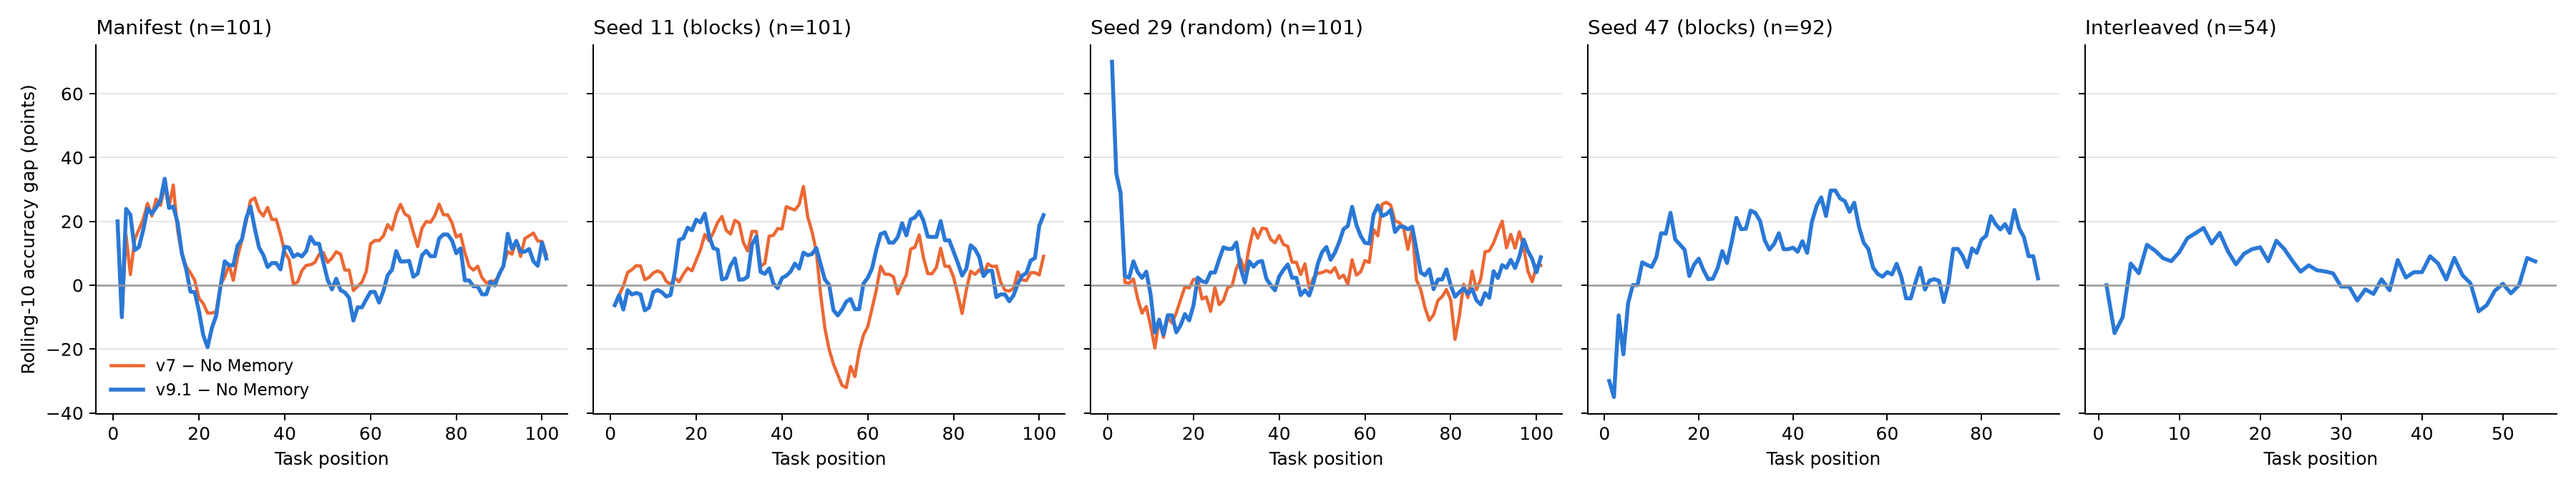
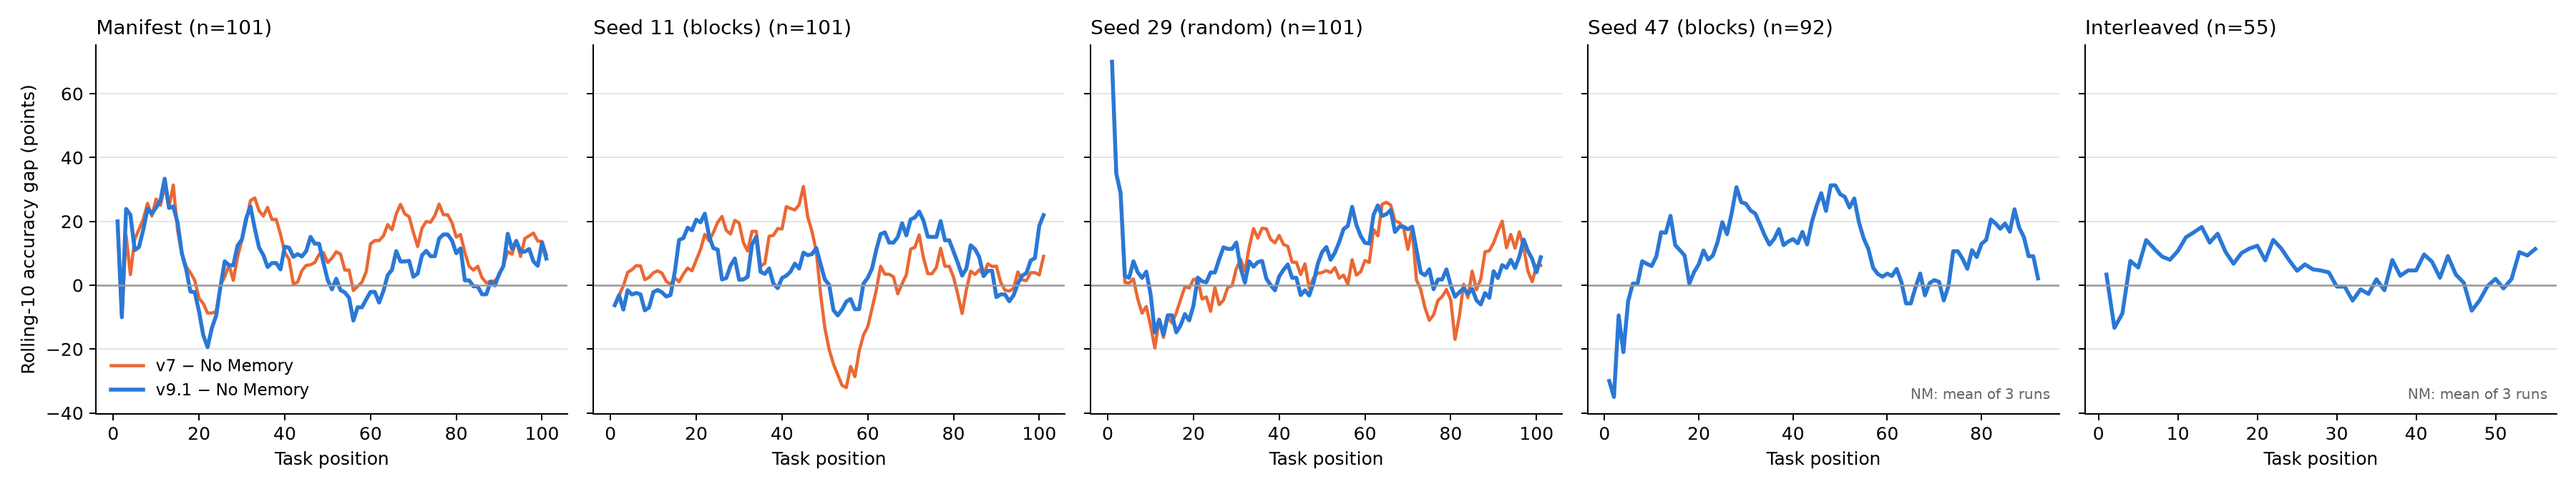
Order table: seed 47/interleaved vs mean of three No Memory runs; drop partial NM; remove duplicated numbers

diff --git a/docs/thesis/sections/5-Results.tex b/docs/thesis/sections/5-Results.tex
@@ -129,7 +129,7 @@ With memory, the order decides which experience is available; in the manifest or
   \item[Domains adjacent.] The order of the 20 domain blocks and the order of tasks within each block are shuffled, with seed 11 and seed 47. The manifest order, used for the main results, also belongs to this kind.
   \item[Domains mixed.] A uniformly random order of all 101 tasks (seed 29), and an interleaved order that takes one task from each domain in turn, so that consecutive tasks always come from different domains.
 \end{description}
-In these orders the two arms run as pairs on each task, alternating which runs first (ABBA). No Memory proved stable: generation is deterministic, and three runs scored 28.5, 27.9 and 28.6\% with 30, 29 and 29 zero-score tasks, so to save compute no further No Memory runs were made: it was stopped after 14 tasks of the interleaved order and after 90 tasks of seed 47. From then on only Long Memory runs, and these orders are compared with the existing No Memory scores per task.
+In the seed-11 and seed-29 orders the two arms run as pairs on each task, alternating which runs first (ABBA). No Memory proved stable: generation is deterministic, and its three complete runs (manifest, seed 11, seed 29) scored 28.5, 27.9 and 28.6\% with 30, 29 and 29 zero-score tasks. The seed-47 and interleaved orders were therefore run with Long Memory only and are compared with the per-task mean of these three No Memory runs.
 
 \begin{table}[ht]
 \centering
@@ -146,28 +146,28 @@ Kind & Order & $n$ & NM & WF & F & WF $-$ NM & F $-$ NM & F $-$ WF & NM / WF / F
 \midrule
 Adjacent & Manifest\textsuperscript{a,\,$\dagger$WF} & 101 & 28.5 & \textbf{40.0} & 35.2 & $+11.5$ [6.0, 16.9] & $+7.1$ [0.9, 13.1] & $-4.4$ [$-9.7$, 1.1] & 30 / 13 / 20 \\
 Adjacent & Shuffled blocks (seed 11)\textsuperscript{$\dagger$F} & 101 & 27.9 & 33.1 & \textbf{35.4} & $+4.4$ [$-1.9$, 10.6] & $+7.4$ [1.6, 13.1] & $+3.0$ [$-3.0$, 9.0] & 29 / 21 / 16 \\
-Adjacent & Shuffled blocks (seed 47)\textsuperscript{b} & 92 & 28.9 & -- & \textbf{39.0} & -- & $+10.4$ [4.3, 16.6] & -- & 25 / -- / 9 \\
+Adjacent & Shuffled blocks (seed 47)\textsuperscript{b} & 92 & 27.9 & -- & \textbf{39.0} & -- & $+11.3$ [5.1, 17.5] & -- & 24 / -- / 9 \\
 Mixed & Random (seed 29) & 101 & 28.6 & 32.6 & \textbf{33.7} & $+4.5$ [$-2.2$, 11.3] & $+5.5$ [$-0.5$, 11.6] & $+1.0$ [$-5.0$, 7.0] & 29 / 21 / 18 \\
-Mixed & Interleaved\textsuperscript{c} & 54 & 31.8 & -- & \textbf{38.7} & -- & $+6.8$ [$-1.1$, 14.7] & -- & 13 / -- / 5 \\
+Mixed & Interleaved\textsuperscript{b} & 55 & 30.9 & -- & \textbf{38.5} & -- & $+7.3$ [$-0.4$, 15.1] & -- & 13 / -- / 5 \\
 \bottomrule
 \end{tabular}
 \end{adjustbox}
 
-\smallskip\parbox{\linewidth}{\footnotesize Bold: best memory arm in the order. $\dagger$WF / $\dagger$F: the order on which whole-file code memory / the final method was developed (development data for that arm).\\ \textsuperscript{a} Not run as alternating pairs; the two arms were run at different times.\\ \textsuperscript{b} Interim, first 92 of 101 tasks (16 Oct). \textsuperscript{c} Interim, first 54 of 101 tasks; No Memory was run for the first 14 only, the rest use the manifest No Memory score of the same task (generation is deterministic).}
+\smallskip\parbox{\linewidth}{\footnotesize Bold: best memory arm in the order. $\dagger$WF / $\dagger$F: the order on which whole-file code memory / the final method was developed (development data for that arm).\\ \textsuperscript{a} Not run as alternating pairs; the two arms were run at different times.\\ \textsuperscript{b} Long Memory only; NM is the per-task mean of the three complete No Memory runs (zero-score: tasks scoring 0 in all three). Interim: first 92 (seed 47) and 55 (interleaved) of 101 tasks.}
 \end{table}
 
-Across all five orders the final method stays above No Memory (\Cref{fig:gap-all}): its pooled accuracy is 33.7--39.0\%, against 27.9--31.8\% for No Memory on the same tasks, and the paired interval excludes zero in three of them. Read by development data, the table separates the two memory designs: each is best on the order it was developed on (whole-file on the manifest, $+11.5$; the final method on seed 11, $+7.4$), but only the final method keeps a gain of $+5.5$ to $+10.4$ on the orders neither was tuned on, where whole-file code memory falls to about $+4.5$ and the final method is ahead of it by 1.0 to 3.0 points (intervals include zero). Whole-file code memory is ahead of the final method only in the manifest order.
+Across all five orders the final method stays above No Memory (\Cref{fig:gap-all}): its pooled accuracy is 33.7--39.0\%, against 27.9--30.9\% for No Memory on the same tasks, and the paired interval excludes zero in three of them. Read by development data, the table separates the two memory designs: each is best on the order it was developed on (whole-file on the manifest, $+11.5$; the final method on seed 11, $+7.4$), but only the final method keeps a gain of $+5.5$ to $+11.3$ on the orders neither was tuned on, where whole-file code memory falls to about $+4.5$ and the final method is ahead of it by 1.0 to 3.0 points (intervals include zero). Whole-file code memory is ahead of the final method only in the manifest order.
 
 \begin{figure}[ht]
 \centering
 \includegraphics[width=\textwidth]{figures/gap_all_orders.png}
-\caption{Rolling 10-task accuracy gap to No Memory in each order (positive: memory better). Blue: final method; orange: whole-file code memory (manifest, seed 11 and seed 29 only). Seed 47 and interleaved are interim (92 and 54 tasks).}
+\caption{Rolling 10-task accuracy gap to No Memory in each order (positive: memory better). Blue: final method; orange: whole-file code memory (manifest, seed 11 and seed 29 only). Seed 47 and interleaved are interim (92 and 55 tasks) and are compared with the per-task mean of three No Memory runs.}
 \label{fig:gap-all}
 \end{figure}
 
 \paragraph{Development and validation.} Seed 11 was used to develop the fragment fix (\Cref{sec:fix}) and is therefore development data for the final method. Its manifest, seed-29, seed-47 and interleaved runs started after it was frozen. All orders use the same 101 tasks, on which the method was developed, so this is a within-benchmark study with cross-order validation, not a held-out evaluation (\Cref{sec:threats}).
 
-In both shuffled orders whole-file code memory leads by about 4.5 points, but neither interval excludes zero (\Cref{tab:order}); No Memory stays at 27.9--28.6\%, so the change is on the memory side. The whole-file design was itself developed on the manifest order: each step from text memory to whole-file code memory followed an inspection of failures in that run. Its 40.0\% there is therefore likely optimistic, a development-set effect rather than a property of the order, since it falls by about 7 points in both shuffled orders while No Memory does not move. The final method, frozen before all its runs except seed 11, varies less (33.7--35.4\% in the three complete orders). The random order matches the shuffled-blocks order, so the gain does not require adjacent same-domain tasks, although these runs do not measure how much adjacency contributes.
+No Memory stays at 27.9--28.6\% in every complete order, so differences between orders are on the memory side. The whole-file design was itself developed on the manifest order: each step from text memory to whole-file code memory followed an inspection of failures in that run. Its 40.0\% there is therefore likely optimistic, a development-set effect rather than a property of the order, since it falls by about 7 points in both shuffled orders. The random and interleaved orders give gains similar to the shuffled-blocks orders, so the gain does not require adjacent same-domain tasks, although these runs do not measure how much adjacency contributes.
 
 Both runs lose much of their gain to one failure (\Cref{fig:order-gap,fig:scaffold}): Long Memory returned the unmodified scaffold on 19 (seed 11) and 16 (seed 29) tasks, all after a complete \texttt{App.vue} from another site began to be injected; No Memory never did.
 
@@ -208,7 +208,7 @@ const activeTab = ref('donation')
 \label{fig:order-gap}
 \end{figure}
 
-With the failure fixed (\Cref{sec:fix}), no scaffold occurred in either order (19 $\to$ 0 and 16 $\to$ 0) and the gain over No Memory rose to 7.4 points in seed 11 (95\% \gls{ci} [1.6, 13.1]) and 5.5 points in seed 29 ([$-0.5$, 11.6]), with zero-score tasks reduced from 29 to 16 and 18 (\Cref{tab:order,fig:order-gap}). The gain is positive with domains adjacent and mixed (the mixed interval includes zero), so it does not rely on same-domain neighbours. Against whole-file code memory the final method is ahead by only 3.0 and 1.0 points, within run-to-run variation; the evidence for the fix is the removal of the scaffolds. Missing Vue imports remain (23 and 27 tasks, against 17 and 19): real pages give more opportunities for this slip.
+With the failure fixed (\Cref{sec:fix}), no scaffold occurred in either order (19 $\to$ 0 and 16 $\to$ 0), and zero-score tasks fell from 29 to 16 and 18 (\Cref{tab:order,fig:order-gap}). The final method's lead over whole-file code memory in these orders is within run-to-run variation; the evidence for the fix is the removal of the scaffolds. Missing Vue imports remain (23 and 27 tasks, against 17 and 19): real pages give more opportunities for this slip.
 
 
 

diff --git a/scripts/analyze_all_orders.py b/scripts/analyze_all_orders.py
@@ -10,20 +10,20 @@ def sc(d):
         if fn: r[x["task_id"]]=(sum(c["outcome"]=="passed" for c in fn)+.5*sum(c["outcome"]=="partial" for c in fn),len(fn))
     return r
 NM1=sc("cluster_nomem_webgenlm7b_r1")
+NMs=[NM1,sc("cluster_order_blocks11_nomem"),sc("cluster_order_random29_nomem")]
+NMM={t:(sum(s[t][0] for s in NMs)/3,NM1[t][1]) for t in NM1}
 O=[("Manifest","cluster_nomem_webgenlm7b_r1","cluster_longmem_v7_webgenlm7b_r1","cluster_manifest_longmem_v9_1_webgenlm7b","manifest"),
 ("Seed 11 (blocks)","cluster_order_blocks11_nomem","cluster_order_blocks11_longmem_v7","cluster_order_blocks11_longmem_v9_1",None),
 ("Seed 29 (random)","cluster_order_random29_nomem","cluster_order_random29_longmem_v7","cluster_order_random29_longmem_v9_1",None),
-("Seed 47 (blocks)","cluster_order_blocks47_nomem",None,"cluster_order_blocks47_longmem_v9_1",None),
-("Interleaved","cluster_order_interleave_nomem",None,"cluster_order_interleave_longmem_v9_1",None)]
+("Seed 47 (blocks)",None,None,"cluster_order_blocks47_longmem_v9_1",None),
+("Interleaved",None,None,"cluster_order_interleave_longmem_v9_1",None)]
 man=json.load(open("archive/phase2-webgen-2026-10/cluster_manifest_longmem_v9_1_webgenlm7b/task-order.json"))["task_ids"] if os.path.exists("archive/phase2-webgen-2026-10/cluster_manifest_longmem_v9_1_webgenlm7b/task-order.json") else [json.loads(l)["task_id"] for l in open(P("cluster_longmem_v7_webgenlm7b_r1")+"/progress.jsonl")]
 acc=lambda s,ts:100*sum(s[t][0] for t in ts)/sum(s[t][1] for t in ts)
 def ci(d):
     random.seed(0); bs=sorted(sum(random.choice(d) for _ in d)/len(d) for _ in range(10000)); return 100*sum(d)/len(d),100*bs[250],100*bs[9750]
 fig,axs=plt.subplots(1,5,figsize=(20,3.8),sharey=True)
 for ax,(name,nm,v7,v9,_) in zip(axs,O):
-    N=sc(nm); fill=0
-    for t,v in NM1.items():
-        if t not in N: N[t]=v; fill+=1
+    N=sc(nm) if nm else dict(NMM); fill=0
     V9=sc(v9); V7=sc(v7) if v7 else {}
     order=json.load(open(P(v9)+"/task-order.json"))["task_ids"] if os.path.exists(P(v9)+"/task-order.json") else man
     ts=[t for t in order if t in V9]
@@ -38,6 +38,7 @@ for ax,(name,nm,v7,v9,_) in zip(axs,O):
     x=range(1,len(ts)+1)
     if V7: ax.plot(x,roll([V7[t][0]/V7[t][1]-N[t][0]/N[t][1] for t in ts]),color="#eb6834",lw=1.8,label="v7 − No Memory")
     ax.plot(x,roll(d9),color="#2a78d6",lw=2.2,label="v9.1 − No Memory")
+    if not nm: ax.text(0.98,0.04,"NM: mean of 3 runs",transform=ax.transAxes,ha="right",fontsize=8,color="#666")
     ax.axhline(0,color="#999",lw=1); ax.set_title(f"{name} (n={len(ts)})",fontsize=11,loc="left")
     ax.set_xlabel("Task position"); ax.grid(axis="y",color="#e5e5e2"); ax.spines[["top","right"]].set_visible(False)
 axs[0].set_ylabel("Rolling-10 accuracy gap (points)"); axs[0].legend(frameon=False,fontsize=9,loc="lower left")

diff --git a/README.md b/README.md
@@ -77,7 +77,7 @@ The checklist-only ablation is complete: No Memory / checklist-only / v7 achieve
 | Seed 11 (shuffled blocks, domains adjacent) | 27.9% | 33.1% | +4.4 [−1.9, 10.6] | 29 / 21 |
 | Seed 29 (random, domains mixed) | 28.6% | 32.6% | +4.5 [−2.2, 11.3] | 29 / 21 |
 
-**Final version v9.1** (code-pool examples reduced to verified fragments, see DECISIONS): seed 11 35.4% (+7.4 [1.6, 13.1] vs No Memory, zero-score 16), seed 29 33.7% (+5.5 [−0.5, 11.6], zero-score 18); scaffold outputs 19 → 0 and 16 → 0. Manifest v9.1: 35.2% (+7.1 [0.9, 13.1], zero-score 20). Interim (16 Oct): seed 47 v9.1 39.0% vs No Memory 28.9% (+10.4 [4.3, 16.6], 92 tasks) and interleaved 38.7% vs 31.8% (+6.8 [−1.1, 14.7], 54 tasks); all-order gap plot [`docs/reports/gap_all_orders.png`](docs/reports/gap_all_orders.png). Both are still running, Long Memory only (No Memory stopped at 90 and 14 tasks; it is deterministic and stable at 27.9–28.6% over three full runs); a second manifest run of v9.1 and the fixed-prefix ablation follow, all expected by about 10-18. v7 was developed on the manifest order, so its 40.0% there is likely optimistic: it drops about 7 points in both shuffled orders while No Memory does not move. With v7, the gain in both shuffled orders shrank to about 4.5 points and was not significant; most of the loss comes from Vite scaffold outputs (19 and 16 tasks, none for No Memory), all after a missing-package code memory whose example was a whole `App.vue` from another site began to be injected. v9.1 fixes this and is used for all remaining experiments. Gap curves: [`docs/reports/gap_order_seed11.png`](docs/reports/gap_order_seed11.png), [`docs/reports/gap_order_seed29.png`](docs/reports/gap_order_seed29.png).
+**Final version v9.1** (code-pool examples reduced to verified fragments, see DECISIONS): seed 11 35.4% (+7.4 [1.6, 13.1] vs No Memory, zero-score 16), seed 29 33.7% (+5.5 [−0.5, 11.6], zero-score 18); scaffold outputs 19 → 0 and 16 → 0. Manifest v9.1: 35.2% (+7.1 [0.9, 13.1], zero-score 20). Interim (16 Oct, Long Memory only, compared with the per-task mean of three complete No Memory runs): seed 47 39.0% vs 27.9% (+11.3 [5.1, 17.5], 92 tasks), interleaved 38.5% vs 30.9% (+7.3 [−0.4, 15.1], 55 tasks); all-order gap plot [`docs/reports/gap_all_orders.png`](docs/reports/gap_all_orders.png). Both are still running, Long Memory only (No Memory is deterministic and stable at 27.9–28.6% over three full runs); a second manifest run of v9.1 and the fixed-prefix ablation follow, all expected by about 10-18. v7 was developed on the manifest order, so its 40.0% there is likely optimistic: it drops about 7 points in both shuffled orders while No Memory does not move. With v7, the gain in both shuffled orders shrank to about 4.5 points and was not significant; most of the loss comes from Vite scaffold outputs (19 and 16 tasks, none for No Memory), all after a missing-package code memory whose example was a whole `App.vue` from another site began to be injected. v9.1 fixes this and is used for all remaining experiments. Gap curves: [`docs/reports/gap_order_seed11.png`](docs/reports/gap_order_seed11.png), [`docs/reports/gap_order_seed29.png`](docs/reports/gap_order_seed29.png).
 
 ## Current limitations and experiments
 

diff --git a/docs/agent-memory/DECISIONS.md b/docs/agent-memory/DECISIONS.md
@@ -501,3 +501,4 @@
 - 论文字数统计不含封面、致谢、目录（导师确认）。
 - **交论文日期更正（用户 10-16）：** 下周一 10-19 交（提早毕业），不是 11-16；11-05 只是集群作业上限。字数统计：参考文献计入，封面、致谢、目录、图表目录不计（Canvas + 导师）。32B 实验不在交论文前做。
 - **队列对调（用户 10-16）：** 固定前缀消融改到主队列（接在交错后），原顺序 r2 改到 lane2（接在种子 47 后），使两者都约 10-18 完成。
+- **种子 47、交错的 No Memory 基准（用户 10-16）：** 不用中途停下的部分 No Memory（交错 14 题、种子 47 的 92 题），论文也不提；统一与三次完整 No Memory（原顺序、种子 11、29）的逐题平均比较。`tab:order` 改为一张总表（准确率、WF−NM、F−NM、F−WF、零分，标出各方法的开发顺序），正文中与表重复的数字已删。
